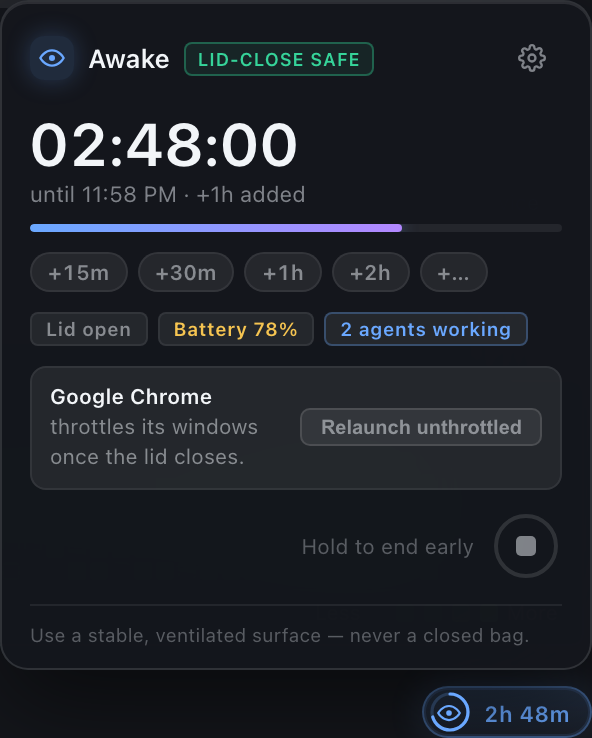
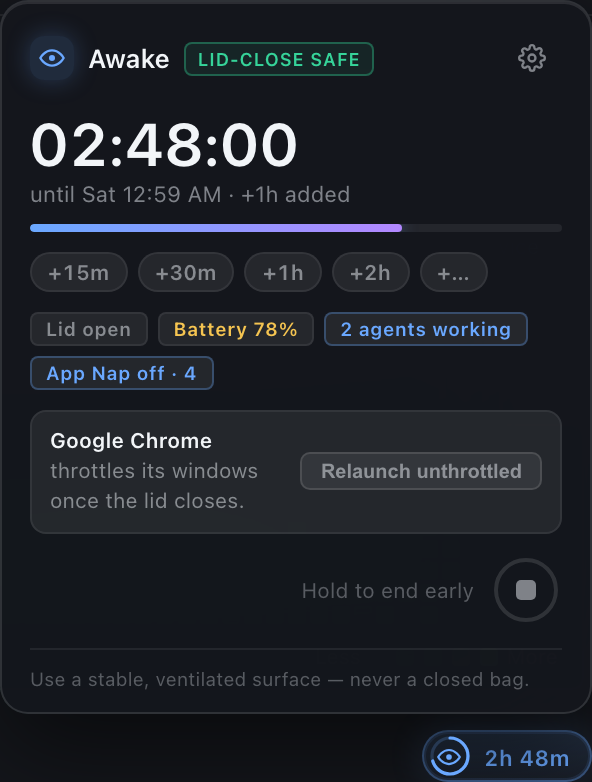
feat(awake): keep agent apps out of App Nap during a session
Ports Insomnia's App Nap override. An opt-in rule: at session start each
installed agent app (terminals, editors, Claude, ChatGPT/Codex, Chromium
browsers, Docker, Tailscale, LM Studio, Ollama...) gets
NSAppSleepDisabled = YES, with its previous value (set, unset, or absent)
journaled first; apps already opted out are skipped and no preferences
domain is ever created for an app that isn't installed. Session end puts
each value back (or deletes the key), clearing an entry only once that
succeeded, and the crash backstop does the same.

ACC_APPNAP_APPS replaces the app list for testing.

diff --git a/src/main/awake.ts b/src/main/awake.ts
@@ -10,6 +10,7 @@ import { getTerminals } from './terminals'
 import { nudgeMarkedPanes } from './tmux'
 import { relaunchUnthrottled, scanThrottledBrowsers, type ThrottledBrowser } from './browsers'
 import type {
+  AppNapOverride,
   AwakeConfig,
   AwakeEndReason,
   AwakeMode,
@@ -67,6 +68,7 @@ interface Runtime {
   lowPowerByUs: boolean
   mutedByUs: boolean
   frozen: FrozenProcess[]
+  appNap: AppNapOverride[]
 }
 
 interface Journal {
@@ -85,11 +87,12 @@ const cleanRuntime = (): Runtime => ({
   sleepDisabledByUs: false,
   lowPowerByUs: false,
   mutedByUs: false,
-  frozen: []
+  frozen: [],
+  appNap: []
 })
 
 const runtimeDirty = (r: Runtime): boolean =>
-  r.sleepDisabledByUs || r.lowPowerByUs || r.mutedByUs || r.frozen.length > 0
+  r.sleepDisabledByUs || r.lowPowerByUs || r.mutedByUs || r.frozen.length > 0 || r.appNap.length > 0
 
 // ---------- process helpers ----------
 
@@ -312,7 +315,12 @@ async function readJournal(): Promise<Journal | null> {
   try {
     const j = JSON.parse(await readFile(journalPath, 'utf8')) as Journal
     if (!j || typeof j !== 'object' || !j.runtime) return null
-    j.runtime = { ...cleanRuntime(), ...j.runtime, frozen: j.runtime.frozen ?? [] }
+    j.runtime = {
+      ...cleanRuntime(),
+      ...j.runtime,
+      frozen: j.runtime.frozen ?? [],
+      appNap: j.runtime.appNap ?? []
+    }
     return j
   } catch {
     return null
@@ -327,6 +335,7 @@ function J(): Journal {
 // ---------- state push ----------
 
 let freezeNames: Record<string, string> = {}
+const appNapNames: Record<string, string> = {}
 
 async function refreshFreezeNames(config: AwakeConfig): Promise<void> {
   const out: Record<string, string> = {}
@@ -360,7 +369,8 @@ export function getAwakeState(): AwakeState {
     restorePending: !j.session && runtimeDirty(j.runtime),
     agentsWorking: live.agentsWorking,
     offlineSince: live.offlineSince ? new Date(live.offlineSince).toISOString() : null,
-    throttledBrowsers: live.throttledBrowsers
+    throttledBrowsers: live.throttledBrowsers,
+    appNapApps: j.runtime.appNap.map((o) => appNapNames[o.bundleId] ?? o.bundleId)
   }
 }
 
@@ -493,8 +503,24 @@ while [ "$i" -lt "\${N:-0}" ]; do
   i=$((i + 1))
 done
 
+N=$(get runtime.appNap)
+i=0
+while [ "$i" -lt "\${N:-0}" ]; do
+  ID=$(get "runtime.appNap.$i.bundleId")
+  PREV=$(get "runtime.appNap.$i.previous")
+  case "$ID" in
+    ''|-*|*/*|NSGlobalDomain) ;;
+    *)
+      if [ "$PREV" = "true" ]; then /usr/bin/defaults write "$ID" NSAppSleepDisabled -bool YES || ok=0
+      elif [ "$PREV" = "false" ]; then /usr/bin/defaults write "$ID" NSAppSleepDisabled -bool NO || ok=0
+      else /usr/bin/defaults delete "$ID" NSAppSleepDisabled >/dev/null 2>&1
+      fi ;;
+  esac
+  i=$((i + 1))
+done
+
 [ "$ok" = 1 ] || exit 1
-printf '%s\\n' '{"version":1,"session":null,"mode":null,"endsAtEpoch":0,"appPid":0,"appStartedAt":"","runtime":{"sleepDisabledByUs":false,"lowPowerByUs":false,"mutedByUs":false,"frozen":[]}}' > "$J.tmp" && /bin/mv "$J.tmp" "$J"
+printf '%s\\n' '{"version":1,"session":null,"mode":null,"endsAtEpoch":0,"appPid":0,"appStartedAt":"","runtime":{"sleepDisabledByUs":false,"lowPowerByUs":false,"mutedByUs":false,"frozen":[],"appNap":[]}}' > "$J.tmp" && /bin/mv "$J.tmp" "$J"
 retire
 `
 
@@ -682,6 +708,95 @@ async function evaluateFloors(): Promise<void> {
     (live.onBattery && pct !== null && pct < c.lowPowerFloor) ||
     (c.thermalRules && live.thermal === 'serious')
   await setLowPower(want).catch(() => undefined)
+}
+
+// ---------- App Nap ----------
+
+/** Agent apps App Nap must not throttle mid-session (Insomnia's list). */
+const AGENT_APPS = [
+  'com.apple.Terminal',
+  'com.googlecode.iterm2',
+  'com.mitchellh.ghostty',
+  'dev.warp.Warp-Stable',
+  'com.microsoft.VSCode',
+  'com.todesktop.230313mzl4w4u92', // Cursor
+  'dev.zed.Zed',
+  'com.google.antigravity',
+  'com.anthropic.claudefordesktop',
+  'com.openai.codex',
+  'com.t3tools.t3code',
+  'com.conductor.app',
+  'com.google.Chrome',
+  'org.chromium.Chromium',
+  'company.thebrowser.Browser',
+  'com.docker.docker',
+  'io.tailscale.ipn.macsys',
+  'ai.elementlabs.lmstudio',
+  'com.electron.ollama'
+]
+
+/** Only plain bundle ids — never NSGlobalDomain, a path, or a flag. */
+const safeDomain = (id: string): boolean => /^[A-Za-z0-9][A-Za-z0-9._-]*$/.test(id) && id !== 'NSGlobalDomain'
+
+function agentApps(): string[] {
+  // Test hook: ACC_APPNAP_APPS replaces the list with stand-in ids.
+  const override = process.env.ACC_APPNAP_APPS
+  return override ? override.split(',').map((s) => s.trim()).filter(Boolean) : AGENT_APPS
+}
+
+async function readSleepDisabled(id: string): Promise<boolean | null | 'error'> {
+  const r = await run('/usr/bin/defaults', ['read', id, 'NSAppSleepDisabled'], 5000)
+  if (r.ok) return r.stdout.trim() === '1'
+  return /does not exist/.test(r.stderr) ? null : 'error'
+}
+
+async function writeSleepDisabled(id: string, value: boolean | null): Promise<boolean> {
+  const args =
+    value === null
+      ? ['delete', id, 'NSAppSleepDisabled']
+      : ['write', id, 'NSAppSleepDisabled', '-bool', value ? 'YES' : 'NO']
+  return (await run('/usr/bin/defaults', args, 5000)).ok
+}
+
+/** Turn App Nap off for each installed agent app, journaling the previous
+ *  value first. Apps already set to YES are skipped — nothing to put back. */
+async function holdAppNap(): Promise<void> {
+  for (const id of agentApps()) {
+    if (!safeDomain(id) || J().runtime.appNap.some((o) => o.bundleId === id)) continue
+    const path = await bundlePath(id)
+    if (!path) continue // not installed: never create a preferences domain for it
+    appNapNames[id] = basename(path, '.app')
+    const previous = await readSleepDisabled(id)
+    if (previous === 'error' || previous === true) continue
+    try {
+      await writeJournal({ ...J(), runtime: { ...J().runtime, appNap: [...J().runtime.appNap, { bundleId: id, previous }] } })
+    } catch {
+      continue // unrecorded changes are never made
+    }
+    if (!(await writeSleepDisabled(id, true))) {
+      await writeJournal({
+        ...J(),
+        runtime: { ...J().runtime, appNap: J().runtime.appNap.filter((o) => o.bundleId !== id) }
+      }).catch(() => undefined)
+    }
+  }
+}
+
+/** Put each recorded value back; an entry is cleared only once that worked. */
+async function releaseAppNap(): Promise<boolean> {
+  let ok = true
+  for (const o of [...J().runtime.appNap]) {
+    if (await writeSleepDisabled(o.bundleId, o.previous)) {
+      await writeJournal({
+        ...J(),
+        runtime: { ...J().runtime, appNap: J().runtime.appNap.filter((x) => x.bundleId !== o.bundleId) }
+      })
+    } else {
+      ok = false
+    }
+  }
+  if (!ok) warn("Some apps' App Nap settings couldn't be put back; the next session end or launch retries.")
+  return ok
 }
 
 // ---------- browser throttling ----------
@@ -885,6 +1000,7 @@ export function startSession(seconds: number): Promise<AwakeState> {
     await armBackstop().catch(() =>
       warn('The crash-recovery backstop could not be armed; keep the app open until the session ends.')
     )
+    if (getAwakeConfig().disableAppNapForAgents) await holdAppNap().catch(() => undefined)
     live.lidClosed = await readLidClosed()
     const b = await readBattery()
     live.onBattery = b.onBattery
@@ -977,6 +1093,7 @@ async function restore(): Promise<boolean> {
   })
   await unmute().catch(() => undefined)
   if (J().runtime.mutedByUs) complete = false
+  if (J().runtime.appNap.length > 0 && !(await releaseAppNap().catch(() => false))) complete = false
   if (J().runtime.lowPowerByUs) {
     await setLowPower(false).catch(() => undefined)
     if (J().runtime.lowPowerByUs) complete = false

diff --git a/src/renderer/src/components/AwakeWidget.tsx b/src/renderer/src/components/AwakeWidget.tsx
@@ -269,6 +269,12 @@ function SettingsView({
         hint="When the timer runs out but a Claude session is still mid-turn, keep going 15 minutes at a time (up to 12 hours extra)."
         onChange={(v) => set({ extendWhileAgentsWork: v })}
       />
+      <Toggle
+        on={c.disableAppNapForAgents}
+        label="Keep agent apps out of App Nap"
+        hint="Sets NSAppSleepDisabled for installed terminals, editors and agent apps during a session and puts each previous value back afterwards. Applies to apps launched while it's on."
+        onChange={(v) => set({ disableAppNapForAgents: v })}
+      />
 
       <div className="awake-group-label">After a network outage</div>
       <Toggle
@@ -626,6 +632,11 @@ export default function AwakeWidget({ state, open, onOpenChange }: Props): JSX.E
                         }
                       >
                         Offline {shortDuration(Math.max(60, (now - new Date(state.offlineSince).getTime()) / 1000))}
+                      </span>
+                    )}
+                    {state.appNapApps.length > 0 && (
+                      <span className="awake-stat on" title={state.appNapApps.join('\n')}>
+                        App Nap off · {state.appNapApps.length}
                       </span>
                     )}
                     {state.lowPowerByUs && <span className="awake-stat on">Low Power</span>}

diff --git a/src/shared/types.ts b/src/shared/types.ts
@@ -403,6 +403,10 @@ export interface AwakeConfig {
   tmuxNudge: boolean
   /** Press Enter after `continue` (also submits anything already typed). */
   tmuxNudgePressesEnter: boolean
+  /** During a session, set `NSAppSleepDisabled` on installed agent apps
+   *  (terminals, editors, Claude…) so App Nap can't throttle them; the
+   *  previous values are put back when the session ends. */
+  disableAppNapForAgents: boolean
 }
 
 /** A process the lid-close freeze stopped, with the identity that proves it. */
@@ -421,6 +425,13 @@ export interface AwakeSession {
   extendedBy: number[]
   /** Seconds added automatically because agents were still working. */
   autoExtendedBy?: number[]
+}
+
+/** An App Nap override to undo: the app's `NSAppSleepDisabled` before the
+ *  session (null = the key was absent, so it is deleted again). */
+export interface AppNapOverride {
+  bundleId: string
+  previous: boolean | null
 }
 
 /** How sleep is being held for the current session. */
@@ -471,4 +482,6 @@ export interface AwakeState {
   /** Running Chromium browsers without the flags that stop them throttling
    *  hidden (lid-closed) windows. */
   throttledBrowsers: Array<{ bundleId: string; name: string }>
+  /** Agent apps whose App Nap is currently held off by this session. */
+  appNapApps: string[]
 }

diff --git a/src/main/store.ts b/src/main/store.ts
@@ -19,7 +19,8 @@ const DEFAULT_AWAKE_CONFIG: AwakeConfig = {
   thermalRules: true,
   extendWhileAgentsWork: false,
   tmuxNudge: false,
-  tmuxNudgePressesEnter: false
+  tmuxNudgePressesEnter: false,
+  disableAppNapForAgents: false
 }
 
 interface StoreSchema {

diff --git a/README.md b/README.md
@@ -105,6 +105,8 @@ rest keeps working.
   (Slack, WhatsApp, Discord by default) — all undone when the lid opens.
 - **Stay awake while agents work** (opt-in) — if the timer runs out while a Claude session in the
   terminals panel is still mid-turn, the session keeps going 15 minutes at a time (12 h cap).
+- **App Nap off for agent apps** (opt-in) — terminals, editors, and agent apps stay unthrottled for
+  the session; each app's previous setting is journaled and put back afterwards.
 - **tmux "continue" nudge** (opt-in) — when the network returns after a 90 s+ outage, types
   `continue` into tmux panes you've marked, so agents stalled on failed API calls retry.
 - **Unthrottled browsers** — spots Chrome / Chromium / Arc / Comet running without the flags that
@@ -492,6 +494,16 @@ by **15 minutes** instead of ending, re-checking each time, up to **12 hours** o
 notification says so the first time. The countdown notes *+Nm for agents* and a tag shows how many
 agents are working. Sessions waiting on you (permission / your turn) don't count — only real work.
 
+**Keep agent apps out of App Nap** — an opt-in rule under ⚙ → *Agents*. For the length of a
+session it sets `NSAppSleepDisabled` for each **installed** agent app — Terminal, iTerm2, Ghostty,
+Warp, VS Code, Cursor, Zed, Antigravity, Claude, ChatGPT/Codex, T3 Code, Conductor, Chrome/Chromium/
+Arc, Docker Desktop, Tailscale, LM Studio, Ollama — so macOS's App Nap can't slow them while they're
+in the background. Each app's previous value (set, unset, or absent) is journaled *before* the
+write, apps already opted out are left alone, and the value is put back when the session ends (the
+crash backstop does it too). macOS reads the key at launch, so it applies to apps opened during the
+session; an *App Nap off · N* tag shows how many are covered. Off, the app never writes another
+app's preferences.
+
 **After a network outage** — an opt-in rule under ⚙. If the network drops during a session (an
 amber *Offline* tag shows how long) and comes back after **90 s or more**, the app types `continue`
 into every tmux pane you've marked, so an agent that gave up on failed API calls carries on. Only
@@ -530,7 +542,7 @@ an *expired* session's changes if the app has crashed, then removes itself.
 
 <p align="center">
   <img src="docs/screenshot-awake.png" alt="The awake popover over the bottom-right corner pill: a 02:48:00 countdown until 8:10 PM with +1h added, a gradient progress bar, +15m/+30m/+1h/+2h/+… add-time chips, lid, battery, and agents-working status tags, a notice offering to relaunch Google Chrome unthrottled, a Lid-close safe badge, and the press-and-hold end control" width="300" />
-  <img src="docs/screenshot-awake-settings.png" alt="Awake settings: a Stay awake while agents work toggle; a toggle to type continue into marked tmux panes after a network outage, with the pane-mark command; toggles to sleep the display, mute audio, and turn on Low Power Mode when the lid closes; a freeze list with Slack, WhatsApp, and Discord; battery floors at 40% and 10%; heat rules; and the lid-close access status" width="300" />
+  <img src="docs/screenshot-awake-settings.png" alt="Awake settings: Stay awake while agents work and Keep agent apps out of App Nap toggles; a toggle to type continue into marked tmux panes after a network outage, with the pane-mark command; toggles to sleep the display, mute audio, and turn on Low Power Mode when the lid closes; a freeze list with Slack, WhatsApp, and Discord; battery floors at 40% and 10%; heat rules; and the lid-close access status" width="300" />
 </p>
 
 ---
@@ -739,6 +751,8 @@ Designed to be safe to open-source and run on any developer's machine:
   backstop exists only while a session or an unfinished restore does. The tmux nudge is off by
   default and only ever types into panes you explicitly marked, never pressing Enter unless asked.
   Browser relaunches happen only after an in-panel confirmation, and never launch a second copy.
+  The App Nap rule is off by default; when on, it only touches installed agent apps' own
+  `NSAppSleepDisabled` key, journaling and restoring each previous value.
 
 ---
 

diff --git a/docs/awake-sessions.md b/docs/awake-sessions.md
@@ -16,6 +16,7 @@ Electron main process; the UI follows the command center's own glass/hairline/ac
 | Health bar | `Awake · <countdown>` chip while a session runs (accent = `lid`, amber = `assertion`); `Awake restore pending` when `restorePending`. |
 | Lid close | Only in `lid` mode (or under `ACC_SIMULATE_LID`) — in assertion mode the Mac sleeps on close anyway. Sleep the display (`pmset displaysleepnow`, best effort), mute (osascript), Low Power Mode (`pmset -b lowpowermode 1`), SIGSTOP the freeze list. Lid open undoes all of it. |
 | Agents | Opt-in `extendWhileAgentsWork`: at expiry, if the terminals snapshot shows any Claude session in `working`, extend 15 min (`autoExtendedBy`), capped at 12 h total; first extension notifies. Waiting states (`permission`, `input`) don't count. |
+| App Nap | Opt-in `disableAppNapForAgents`: at start, for each installed agent app (`AGENT_APPS`, Insomnia's list; `bundlePath()` must resolve — never creates a domain), `defaults read <id> NSAppSleepDisabled` → journal `runtime.appNap[{bundleId, previous: true/false/null}]` → `defaults write … -bool YES`. Already-YES and unreadable apps skipped; ids limited to `[A-Za-z0-9._-]`, never `NSGlobalDomain`. `releaseAppNap()` (in `restore()`) writes back or `defaults delete`s, clearing each entry only after success. The backstop does the same with `plutil` + `defaults`. |
 | Outage nudge | Opt-in `tmuxNudge`: `net.isOnline()` polled every 5 s during a session (`offlineSince` → amber *Offline* tag). Back online after ≥ 90 s → `nudgeMarkedPanes()` (`src/main/tmux.ts`): `list-panes -a`, then per pane `show-options -qpv @insomnia-nudge` must be exactly `on`, `display-message` flags `dead/in_mode/input_off` must be `0 0 0`, the session must still be the same, then `send-keys -l continue` (+ `Enter` only with `tmuxNudgePressesEnter`). Notifies with the count. |
 | Browsers | `src/main/browsers.ts`: `scanThrottledBrowsers()` (lsappinfo pid → `ps -ww -o args=`, both `UNTHROTTLE_FLAGS` must be present) for Chrome, Chromium, Arc, Comet — refreshed on popover open and every 60 s in a session. `relaunchUnthrottled()` after an inline confirm: read args twice (same `lstart`), AppleScript quit, wait ≤ 10 s (else launch nothing), `open -b <id> --args <flags> <profile args>`, wait ≤ 5 s. Card shows when `lidReady` (idle) or `mode === 'lid'` (running). |
 | Floors | On battery: LPM below `lowPowerFloor` (40), end below `endFloor` (10, 0 = off). Heat rules: LPM at `serious`, end at `critical`. |
@@ -103,9 +104,8 @@ commands. Removal is refused while a session or unfinished restore exists.
 
 ## 7. Not ported from Insomnia
 
-iPhone-hotspot failover, App Nap
-overrides, private-framework brightness save/restore (display sleep is used instead), Docker idle
-freeze rule.
+iPhone-hotspot failover, private-framework brightness save/restore (display sleep is used instead),
+Docker idle freeze rule.
 
 ## 8. Delivery record
 
@@ -120,7 +120,10 @@ freeze rule.
   copy mode refused, and a 20 s outage nudged nothing. `ACC_EXTRA_BROWSERS=<ids>` adds stand-in
   browsers: a Cocoa test app was relaunched with both flags and its `--profile-directory`; an app
   that ignores quit was left alone with nothing launched; a non-browser id was refused. Real Chrome
-  was only scanned (correctly reported throttled), never relaunched.
+  was only scanned (correctly reported throttled), never relaunched. `ACC_APPNAP_APPS=<ids>`
+  replaces the agent list: a domain preset to NO and one with no key both went to YES and back (NO,
+  and deleted), an uninstalled id was never written, and after `kill -9` the backstop restored both
+  within 3 s of expiry.
 
 - Branch `worktree-feature-insomnia-awake`. Screenshots via the headless harness:
   `npm run screenshots awake` (`screenshot-awake.png`, `screenshot-awake-settings.png`); the mock
